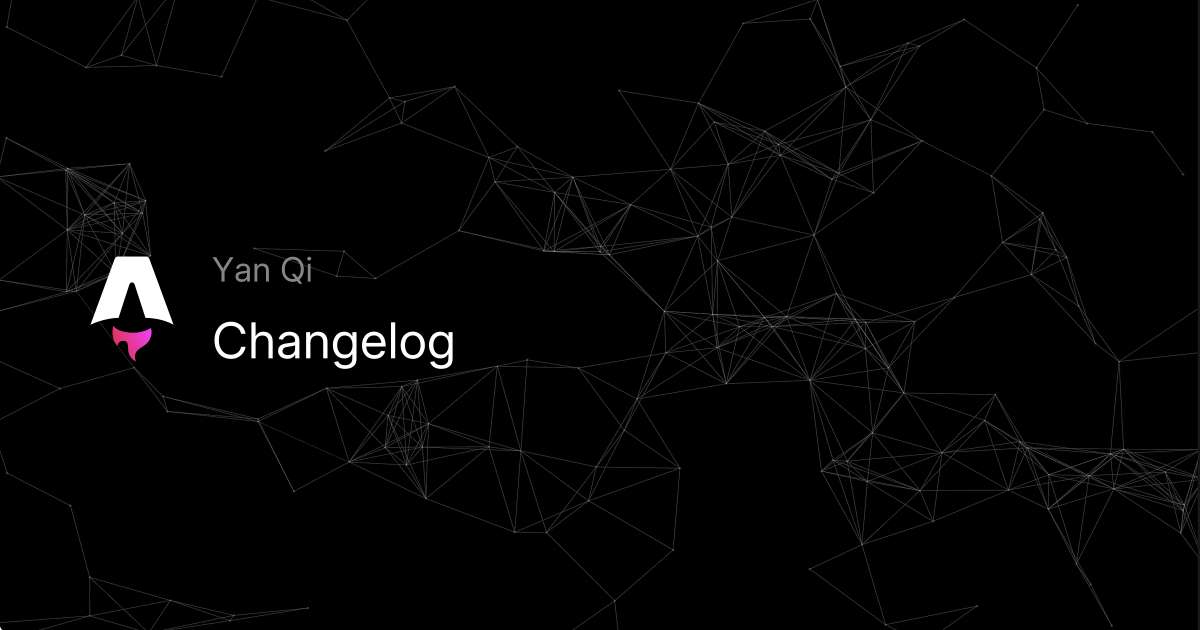
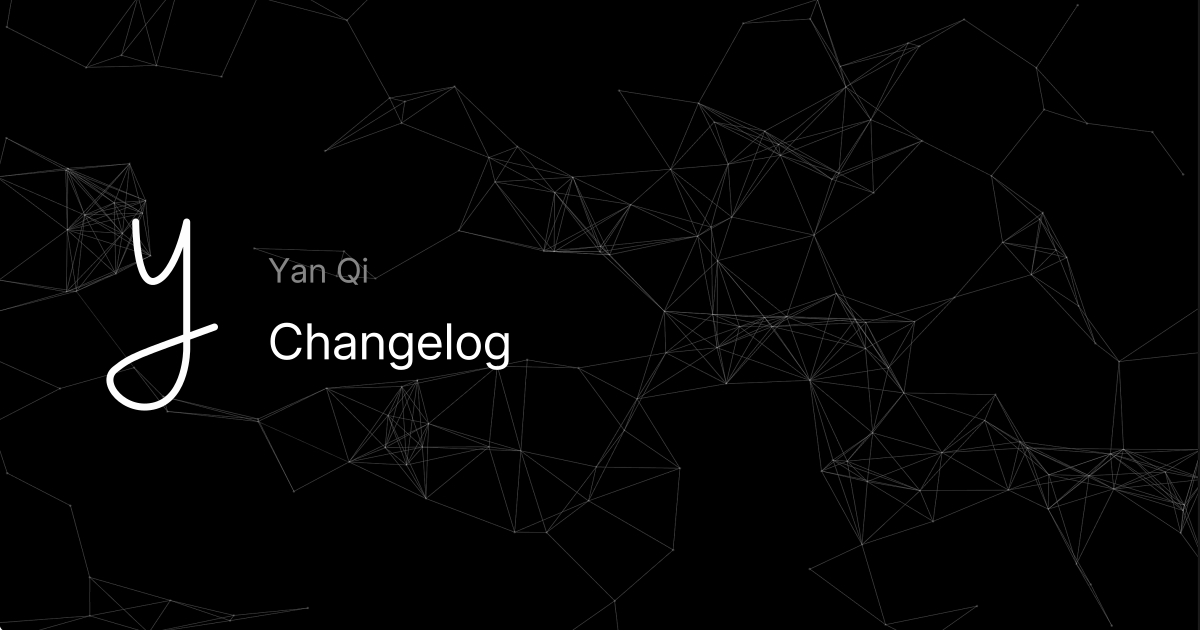
chore: one more

Changed region(s): [[0.0617, 0.3317, 0.4317, 0.6635]]

diff --git a/plugins/og-template/markup.ts b/plugins/og-template/markup.ts
@@ -25,33 +25,19 @@ export const ogImageMarkup = (
     <div tw="flex items-center justify-start w-full px-18" style="gap: 20px">
       <div tw="self-start flex justify-center items-center">
         <svg
+          viewBox="0 0 176 215" fill="none"
           xmlns="http://www.w3.org/2000/svg"
-          width="7.5em"
-          height="7.5em"
-          viewBox="0 0 32 32"
+          aria-hidden="true"
         >
-          <path
-            fill="url(#vscodeIconsFileTypeAstro0)"
-            d="M11.025 20.499c-.532 1.75-.154 4.184 1.105 5.331v-.042l.042-.112c.154-.741.756-1.203 1.526-1.175c.713.014 1.12.392 1.217 1.217c.042.308.042.616.056.938v.098c0 .7.196 1.371.588 1.959c.35.56.84.993 1.497 1.287l-.028-.056l-.028-.112c-.49-1.469-.14-2.49 1.147-3.358l.392-.266l.868-.573a4.25 4.25 0 0 0 1.791-3.037c.07-.532 0-1.05-.154-1.553l-.21.14c-1.945 1.035-4.17 1.4-6.325.98c-1.301-.197-2.56-.56-3.498-1.652z"
-          ></path>
-          <path
-            fill="#fff"
-            d="M4.925 20.191s3.736-1.82 7.486-1.82l2.84-8.759c.098-.42.406-.7.756-.7s.644.28.756.714l2.826 8.746c4.45 0 7.487 1.82 7.487 1.82L20.709 2.84c-.168-.518-.49-.84-.896-.84h-7.612c-.406 0-.7.322-.896.84z"
-          ></path>
-          <defs>
-            <linearGradient
-              id="vscodeIconsFileTypeAstro0"
-              x1="8.19"
-              x2="16.91"
-              y1="23"
-              y2="18.89"
-              gradientTransform="translate(-.673 -2.198)scale(1.3993)"
-              gradientUnits="userSpaceOnUse"
+          <g
+            stroke="#fdfdfd"
+          >
+            <path
+              stroke-width="7" stroke-linecap="round" stroke-linejoin="round"
+              d="M63.7025 14C63.7025 14 63.7024 80 83.7024 73C103.702 66 114.703 14 114.703 14V141.5C114.703 141.5 114.702 188.5 83.7024 197.5C52.7023 206.5 26.5 174.651 43 161.5C59.5 148.349 63.7025 147.5 142.5 119"
             >
-              <stop offset="0" stop-color="#d83333"></stop>
-              <stop offset="1" stop-color="#f041ff"></stop>
-            </linearGradient>
-          </defs>
+            </path>
+          </g>
         </svg>
       </div>
 

diff --git a/src/pages/manifest.webmanifest.js b/src/pages/manifest.webmanifest.js
@@ -2,10 +2,10 @@ export async function GET() {
   const base = import.meta.env.BASE_URL
 
   const manifest = {
-    name: 'YanQi\'s Personal Website',
-    short_name: 'YanQi',
+    name: 'yanqi',
+    short_name: 'Q',
     description:
-      'YanQi\'s Personal Website',
+      'My Personal Website',
     icons: [
       { src: `${base}icon-192.png`, type: 'image/png', sizes: '192x192' },
       { src: `${base}icon-512.png`, type: 'image/png', sizes: '512x512' },

diff --git a/src/config.ts b/src/config.ts
@@ -5,7 +5,7 @@ export const SITE: Site = {
   base: '/',
   title: 'Yan Qi',
   description:
-    'yanqi\'s personal website',
+    'My Personal Website',
   author: 'Yan Qi',
   lang: 'en',
   ogLocale: 'en_US',
